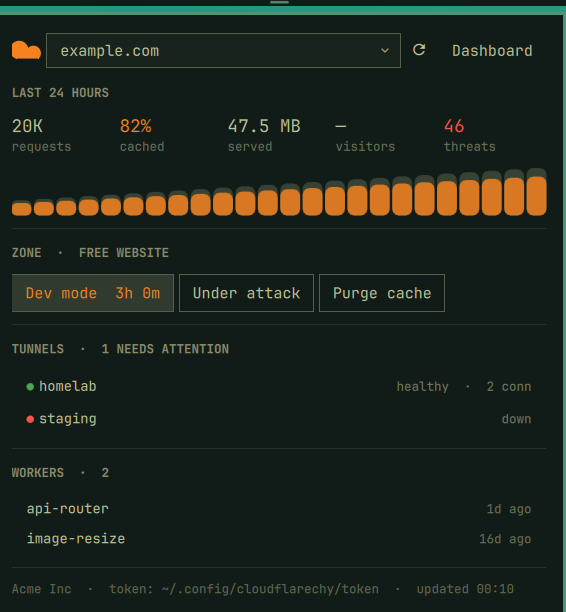
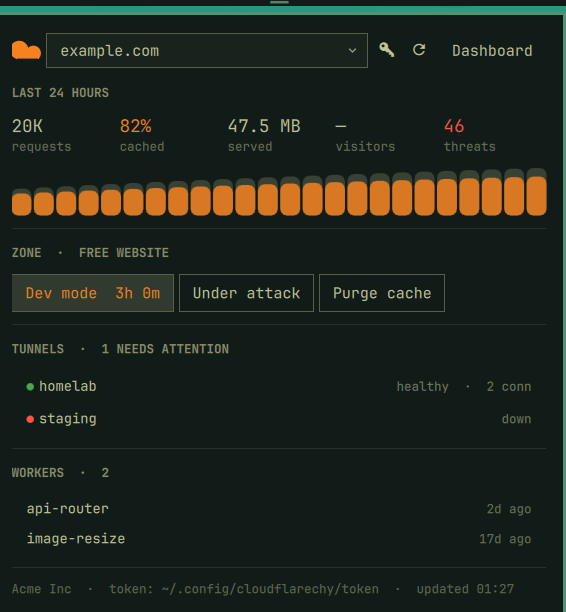
Show what the plugin looks like now
The preview was three releases old: it predated the square-root graph,
the read-only state, the key icon that reaches the credential screen, and
the credential screen itself — which is the first thing anyone who
installs this actually sees. A screenshot of a version nobody can
download is worse than none.

The Connect shot is from this machine with no credential configured, so
there is nothing in it to redact. The dashboard shot is still the
stand-in API, and the README still says so.

Changed region(s): [[0.0, 0.2794, 0.9011, 0.3415], [0.6608, 0.0621, 0.7208, 0.0931], [0.841, 0.8693, 0.871, 0.9003]]

diff --git a/README.md b/README.md
@@ -41,6 +41,8 @@ screen with two routes:
 - **Paste an API token** — adds the switches and a bar dot you can trust
   overnight.
 
+![The Connect screen](connect.png)
+
 Either can be changed later: the key icon in the panel header (or `c`) reopens
 that screen, so a wrangler session can be upgraded to a token whenever you like,
 and a saved token can be forgotten to fall back to wrangler.
